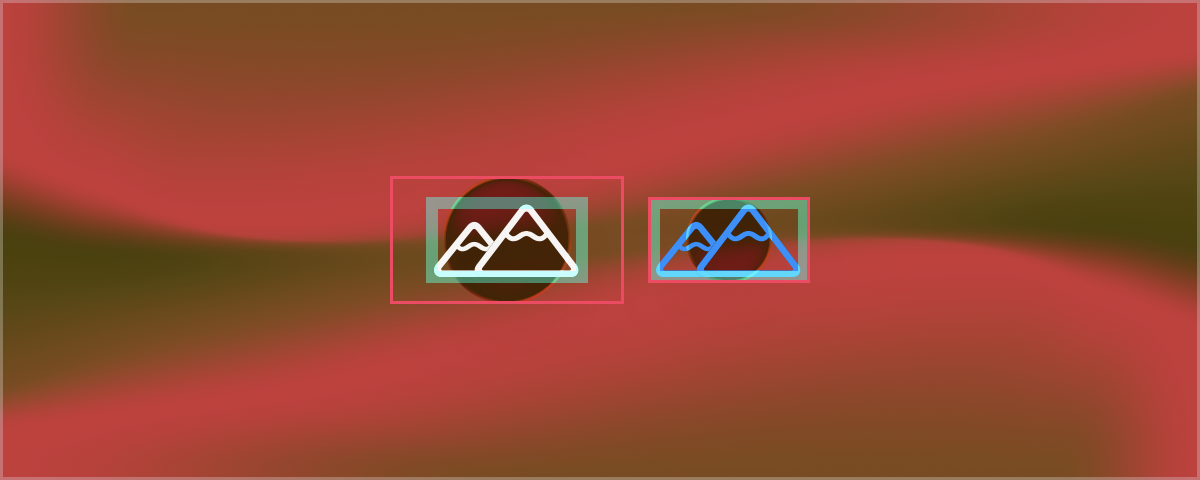
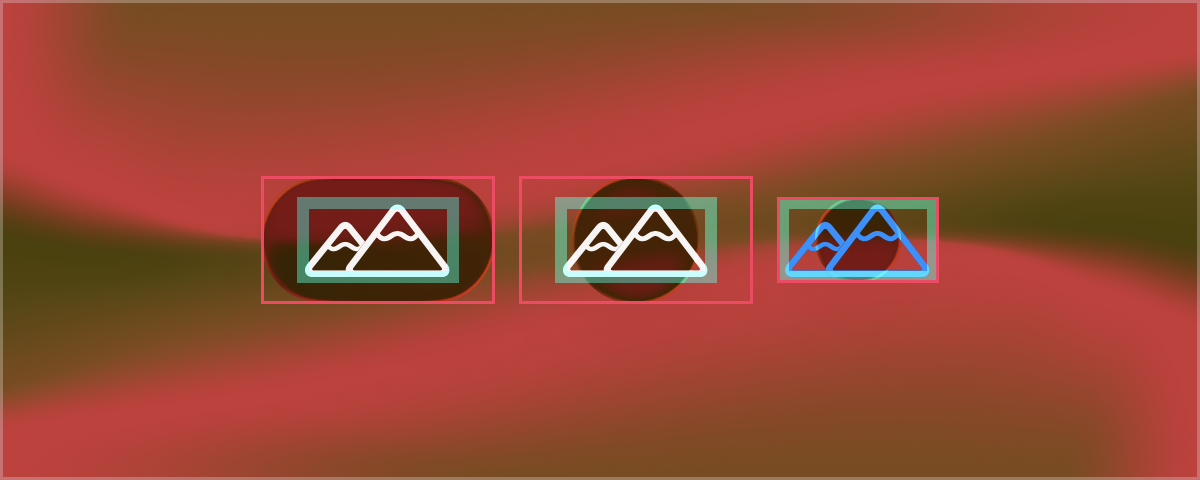
adjustment to all current images for copying into article

Changed region(s): [[0.2158, 0.3438, 0.8017, 0.6562]]

diff --git a/illustrations-app/illustrations/IntricaciesOfCircularButtons.swift b/illustrations-app/illustrations/IntricaciesOfCircularButtons.swift
@@ -71,7 +71,7 @@ struct IntricaciesOfCircularButtons {
                     .glassEffect(.regular.interactive(), in: .circle)
                 }
                 .font(.title)
-            }
+            } // Illustration
         }
     }
 
@@ -82,32 +82,41 @@ struct IntricaciesOfCircularButtons {
                 HStack {
                     let mountainsButton = Button(action: {}) {
                         Label { Text("Mountains") }
-                        icon: { Image(systemName: "mountain.2").border(.mint.secondary, width: 4) }
+                        icon: {
+                            Image(systemName: "mountain.2")
+                            .border(.mint.secondary, width: 4) // Frame the symbol image.
+                        }
                     }
+
+                    mountainsButton
+                    .labelStyle(.iconOnly)
+                    .buttonBorderShape(.capsule)
+                    .buttonStyle(.glass)
+                    .border(.pink) // Highlight frame.
 
                     mountainsButton
                     .labelStyle(.iconOnly)
                     .buttonBorderShape(.circle)
                     .buttonStyle(.glass)
-                    .border(.pink)
+                    .border(.pink) // Highlight frame.
 
                     mountainsButton
                     .labelStyle(.iconOnly)
                     .glassEffect(.regular.interactive(), in: .circle)
-                    .border(.pink)
+                    .border(.pink) // Highlight frame.
                 }
                 .font(.title)
-            }
+            } // Illustration
         }
     }
 
 
     struct FramedButtonStyle: ButtonStyle {
-        let size: CGSize
+        let length: CGFloat
         func makeBody(configuration: Configuration) -> some View {
             configuration.label
             .labelStyle(.iconOnly)
-            .frame(width: size.width, height: size.height)
+            .frame(width: length, height: length)
         }
     }
 
@@ -115,27 +124,26 @@ struct IntricaciesOfCircularButtons {
         try storage.renderAndStore("framed-button-style", strategy: .windowHierarchy) {
             DocumentationIllustration(sizing: .regular, background: .fadedMoltenHorizon) {
                 HStack {
-                    let size = CGSize(width: 60, height: 60)
                     Button("Leaf", systemImage: "leaf", action: {})
-                    .buttonStyle(FramedButtonStyle(size: size))
-                    .buttonBorderShape(.circle)
+                    .buttonStyle(FramedButtonStyle(length: 60))
+                    .buttonBorderShape(.circle)  // Does not work with this style!
 
                     Button("Leaf", systemImage: "leaf", action: {})
-                    .buttonStyle(FramedButtonStyle(size: size))
+                    .buttonStyle(FramedButtonStyle(length: 60))
                     .glassEffect(.regular.interactive(), in: .circle)
                 }
                 .font(.title)
-            }
+            } // Illustration
         }
     }
 
 
     struct GlassFramedButtonStyle: ButtonStyle {
-        let size: CGSize
+        let length: CGFloat
         func makeBody(configuration: Configuration) -> some View {
             configuration.label
             .labelStyle(.iconOnly)
-            .frame(width: size.width, height: size.height)
+            .frame(width: length, height: length)
             .glassEffect(.regular.interactive(), in: .circle)
         }
     }
@@ -150,9 +158,9 @@ struct IntricaciesOfCircularButtons {
                     Button("Envelope", systemImage: "envelope.badge.shield.half.filled", action: {})
                     Button("Lock", systemImage: "lock.open.trianglebadge.exclamationmark.fill", action: {})
                 }
-                .buttonStyle(GlassFramedButtonStyle(size: .init(width: 60, height: 60)))
+                .buttonStyle(GlassFramedButtonStyle(length: 60))
                 .font(.title)
-            }
+            } // Illustration
         }
     }
 
@@ -161,19 +169,20 @@ struct IntricaciesOfCircularButtons {
         try storage.renderAndStore("glass-framed-button-style-aligned", strategy: .windowHierarchy) {
             DocumentationIllustration(sizing: .regular, background: .fadedMoltenHorizon) {
                 HStack(alignment: .firstTextBaseline) {
-                    let alignmentGuideRect = Rectangle().fill(.pink.secondary).frame(width: 260, height: 2)
                     Button("Hourglass", systemImage: "hourglass.badge.eye", action: {})
                     Button("Envelope", systemImage: "envelope.badge.shield.half.filled", action: {})
                     Button("Lock", systemImage: "lock.open.trianglebadge.exclamationmark.fill", action: {})
 
+                    let alignmentGuideRect = Rectangle().fill(.pink.secondary).frame(width: 260, height: 2)
                     Button("Fish", systemImage: "fish", action: {})
+                    // Alignment guide visualization.
                     .overlay(alignment: .topTrailing) { alignmentGuideRect }
                     .overlay(alignment: .trailingFirstTextBaseline) { alignmentGuideRect }
                     .overlay(alignment: .bottomTrailing) { alignmentGuideRect }
                 }
-                .buttonStyle(GlassFramedButtonStyle(size: .init(width: 60, height: 60)))
+                .buttonStyle(GlassFramedButtonStyle(length: 60))
                 .font(.title)
-            }
+            } // Illustration
         }
     }
 
